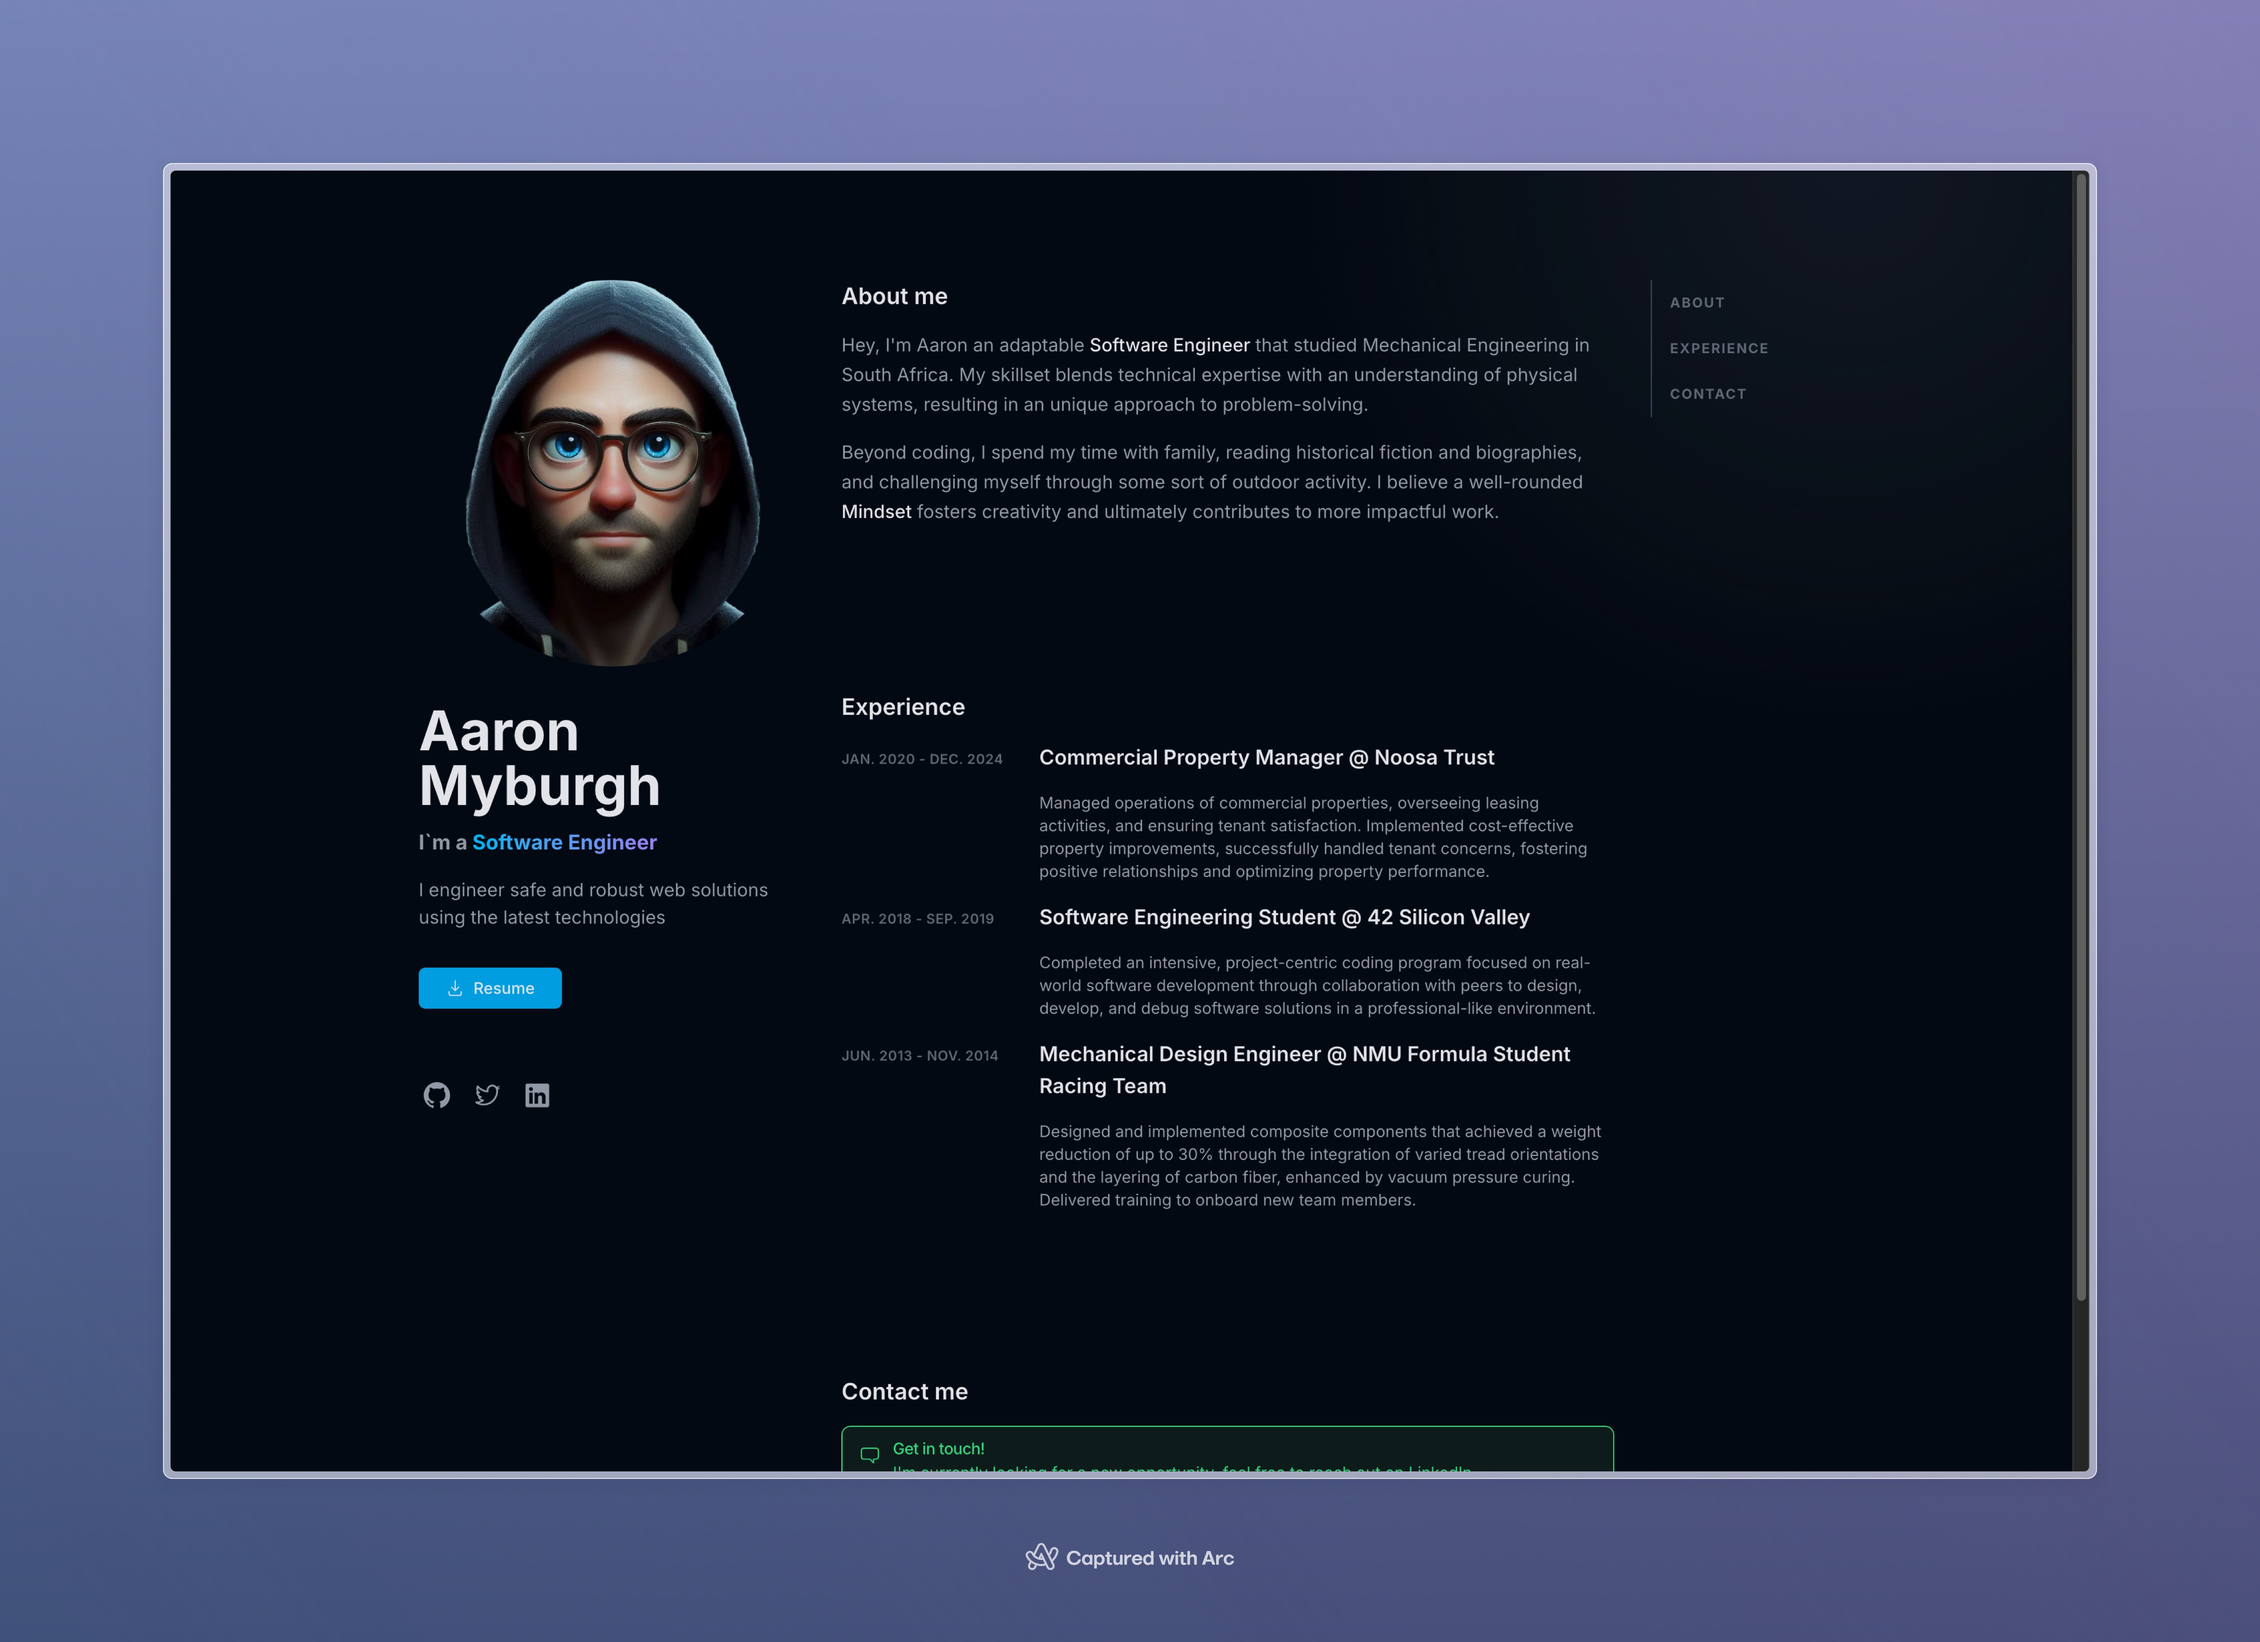
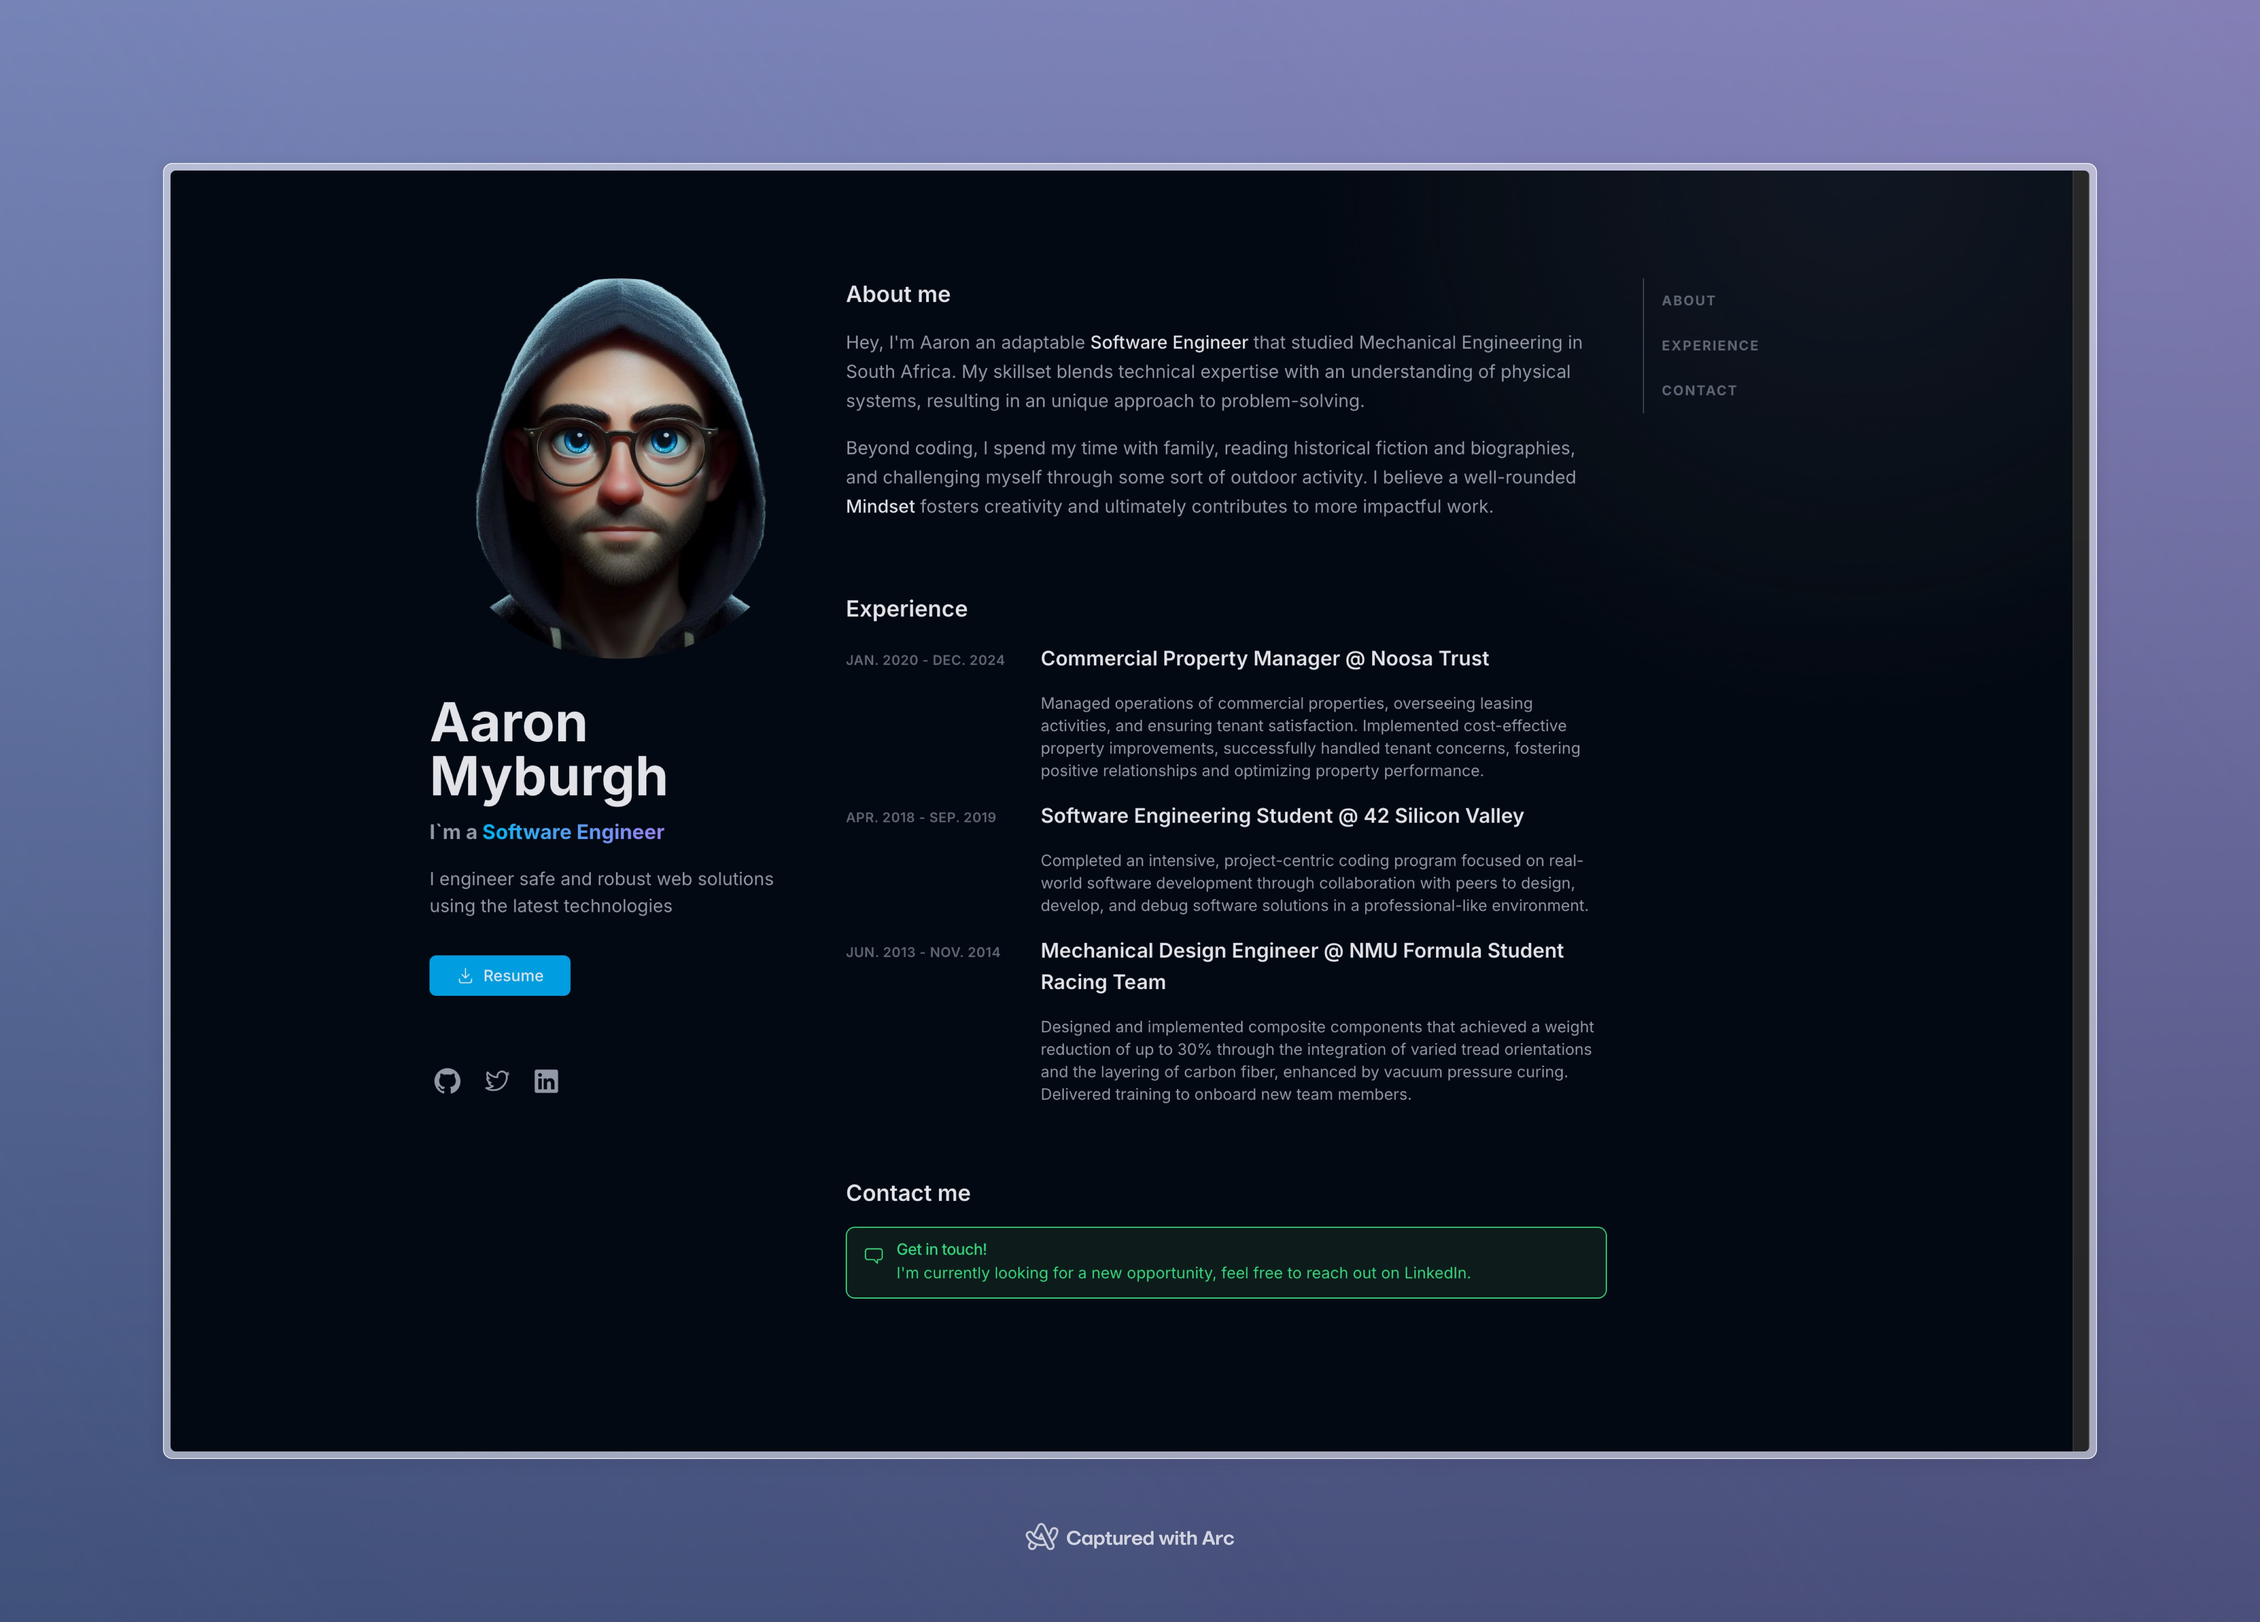
Adjust section margins and update site preview

diff --git a/components/About.tsx b/components/About.tsx
@@ -6,8 +6,8 @@ const About: React.FC = () => {
   return (
     <section
       id='about'
-      className='mb-16 scroll-mt-16 md:mb-24 lg:mb-36 lg:scroll-mt-24'
-      aria-label='about me'
+      className='mb-8 scroll-mt-16 md:mb-12 lg:mb-16 lg:scroll-mt-24'
+      aria-label='about'
     >
       <h3 className='not-prose mb-4 flex whitespace-pre-wrap text-xl font-semibold text-gray-200'>
         <a

diff --git a/components/Contact.tsx b/components/Contact.tsx
@@ -8,7 +8,7 @@ const Contact = () => {
   return (
     <section
       id='contact'
-      className='mb-16 scroll-mt-16 md:mb-24 lg:mb-36 lg:scroll-mt-24'
+      className='mb-8 scroll-mt-16 md:mb-12 lg:mb-16 lg:scroll-mt-24'
       aria-label='contact'
     >
       <h3 className='not-prose mb-4 flex whitespace-pre-wrap text-center text-xl font-semibold text-gray-200'>

diff --git a/components/Experience.tsx b/components/Experience.tsx
@@ -30,7 +30,7 @@ const Experience: React.FC = () => {
   return (
     <section
       id='experience'
-      className='mb-16 scroll-mt-16 md:mb-24 lg:mb-36 lg:scroll-mt-24'
+      className='mb-8 scroll-mt-16 md:mb-12 lg:mb-16 lg:scroll-mt-24'
     >
       <h3 className='not-prose mb-4 flex whitespace-pre-wrap text-xl font-semibold text-gray-200'>
         <a
